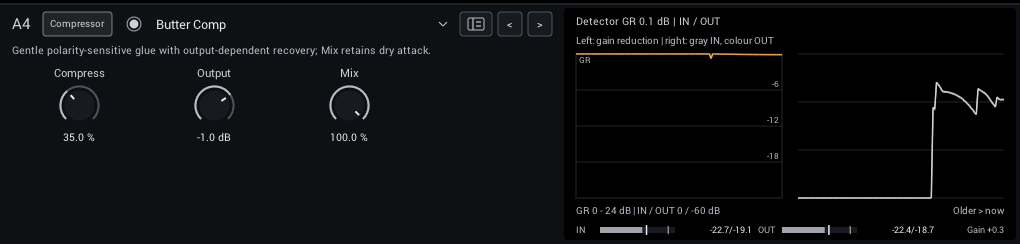
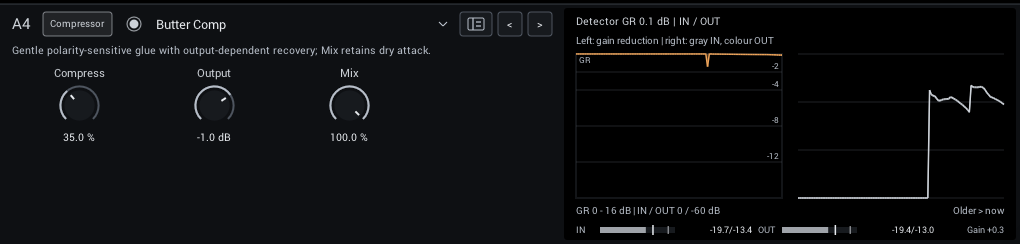
Make gentle gain reduction easier to read

diff --git a/NeuralAmpModeler/NAMGridControls.h b/NeuralAmpModeler/NAMGridControls.h
@@ -26,6 +26,8 @@ const IColor compColor(255, 205, 210, 216), gateColor(255, 205, 210, 216), eqCol
 const IColor boostColor(255, 238, 126, 95), modulationColor(255, 168, 153, 245);
 const IColor delayColor(255, 104, 206, 232), reverbColor(255, 199, 143, 237), neutralColor(255, 170, 179, 192);
 const IColor creativeColor(255, 235, 137, 219);
+// Give everyday 2-4 dB compression more space while retaining room for heavy reduction.
+inline constexpr float compressionReductionRange = 16.f;
 struct NodeTone
 {
   IColor first, second;
@@ -1718,7 +1720,7 @@ private:
         DrawReductionHistory(g, reduction);
         levels(-60.f, history);
         PlotDetail(g,plot,"Left: gain reduction | right: gray IN, colour OUT");
-        PlotFooter(g,plot,"GR 0 - 24 dB | IN / OUT 0 / -60 dB","Older > now");
+        PlotFooter(g,plot,"GR 0 - 16 dB | IN / OUT 0 / -60 dB","Older > now");
         return;
       }
       if (effect == SlotEffect::DigitalBlack)
@@ -1776,9 +1778,10 @@ private:
       const bool compressor=effect==SlotEffect::SmoothComp || effect==SlotEffect::PunchComp;
       const IRECT history(smart ? plot.L : plot.MW()+8,plot.T,plot.R,plot.B);
       const IRECT reductionBar(plot.L,538,plot.R,541);
+      const float reductionRange = gate || smart ? 24.f : compressionReductionRange;
       g.FillRect(surface,reductionBar);
       g.FillRect(ampColor.WithOpacity(.8f),IRECT(reductionBar.L,reductionBar.T,
-        reductionBar.L+reductionBar.W()*std::clamp(mReductionNow/24.f,0.f,1.f),reductionBar.B));
+        reductionBar.L+reductionBar.W()*std::clamp(mReductionNow/reductionRange,0.f,1.f),reductionBar.B));
       const float floor=gate || smart ? -100.f : -60.f;
       if(!smart)
       {
@@ -1813,7 +1816,8 @@ private:
         else if(gate) info.SetFormatted(80,"Dot: live | closes 3 dB below | %.0f ms",release);
         else info.SetFormatted(80,"Dot: live input | release %.0f ms",release);
         PlotDetail(g,plot,info.Get());
-        info.SetFormatted(64,"IN %.0f..0 / OUT %.0f..+18 dB",floor,floor);
+        if (gate) info.SetFormatted(64,"IN %.0f..0 / OUT %.0f..+18 dB",floor,floor);
+        else info.SetFormatted(80,"IN %.0f..0 / OUT %.0f..+18 | GR 0..16 dB",floor,floor);
         PlotFooter(g,plot,info.Get(),gate ? "Live 0..-100" : "Live 0..-60");
       }
       else
@@ -2131,7 +2135,7 @@ private:
     }, -24., 6., color);
 
     DrawReductionHistory(g, reduction);
-    PlotFooter(g, plot, "Cuts -24 / +6 dB", "GR 0 - 24 dB");
+    PlotFooter(g, plot, "Cuts -24 / +6 dB", "GR 0 - 16 dB");
   }
   // Console EQ: the measured small-signal response over the live output spectrum. Its band
   // density is level-dependent, so louder notes add harmonics this curve does not show.
@@ -2195,9 +2199,9 @@ private:
   void DrawReductionHistory(IGraphics& g, const IRECT& area)
   {
     using namespace grid_ui;
-    constexpr float range = 24.f;
+    constexpr float range = grid_ui::compressionReductionRange;
     g.DrawRect(border.WithOpacity(.5f), area);
-    for (float db : {6.f, 12.f, 18.f})
+    for (float db : {2.f, 4.f, 8.f, 12.f})
     {
       const float y = area.T + area.H() * db / range;
       g.DrawLine(border.WithOpacity(.4f), area.L, y, area.R, y);

diff --git a/docs/ui.md b/docs/ui.md
@@ -42,6 +42,12 @@ Previous/next stays within the current effect category or capture/IR folder. Add
 
 Displays help answer practical questions: Is the compressor working? How dark are the repeats? Where is the EQ cutting? Some show live audio; others sketch the current settings. Their labels identify which is which.
 
+Compressor and limiter gain-reduction displays use a 0–16 dB scale, giving typical
+2–4 dB compression more room while allowing heavier reduction. Outboard Channel
+and Butter Comp histories mark 2, 4, 8 and 12 dB. The numeric GR readout continues
+above 16 dB even when the graph or bar reaches its edge. Gate attenuation displays
+keep their wider scales.
+
 Use the **level meters** in the display footer to compare tones at similar volume. They read the same scale as the slot meters, -60 to +6 dBFS:
 
 - **Gain near 0 dB** means the module adds little overall level—useful for a fair bypass comparison.

diff --git a/CHANGELOG.md b/CHANGELOG.md
@@ -9,6 +9,10 @@ All notable user-facing changes to NAM Grid are documented here, newest first. S
 - A single-command `bash build.sh` build for Git Bash on Windows, WSL2, macOS and Linux, with automatic first-run dependency setup, incremental builds under `build/<platform>/release/`, and `--test` to run the standard test suites.
 - Windows build guidance includes WinGet installation commands and portable MSVC/Ninja support; the build help documents manual cross-platform GitHub Actions builds and macOS signing limitations.
 
+### Changed
+
+- Compressor and limiter gain-reduction displays use a 16 dB scale instead of 24 dB, with 2 and 4 dB guides in Outboard Channel and Butter Comp histories so gentle compression is easier to see. Gate attenuation displays retain their wider ranges.
+
 ## [0.2.1] - 2026-10-25
 
 ### Changed

diff --git a/docs/modules/dynamics.md b/docs/modules/dynamics.md
@@ -150,7 +150,7 @@ A channel strip after Airwindows CStrip2: low and high cuts into a compressor an
 | **Saturate** | 0–100% | 15% | Adds output saturation. Use Output to match loudness. |
 | **Mix** | 0–100% | 100% | Parallel blend of dry and compressed sound. |
 
-**Display:** The cuts over the output spectrum, the saturation curve and gain reduction.
+**Display:** The cuts over the output spectrum and gain-reduction history on a 0–16 dB scale. Speed and Saturate appear in the title.
 
 ## Peak Limiter
 
